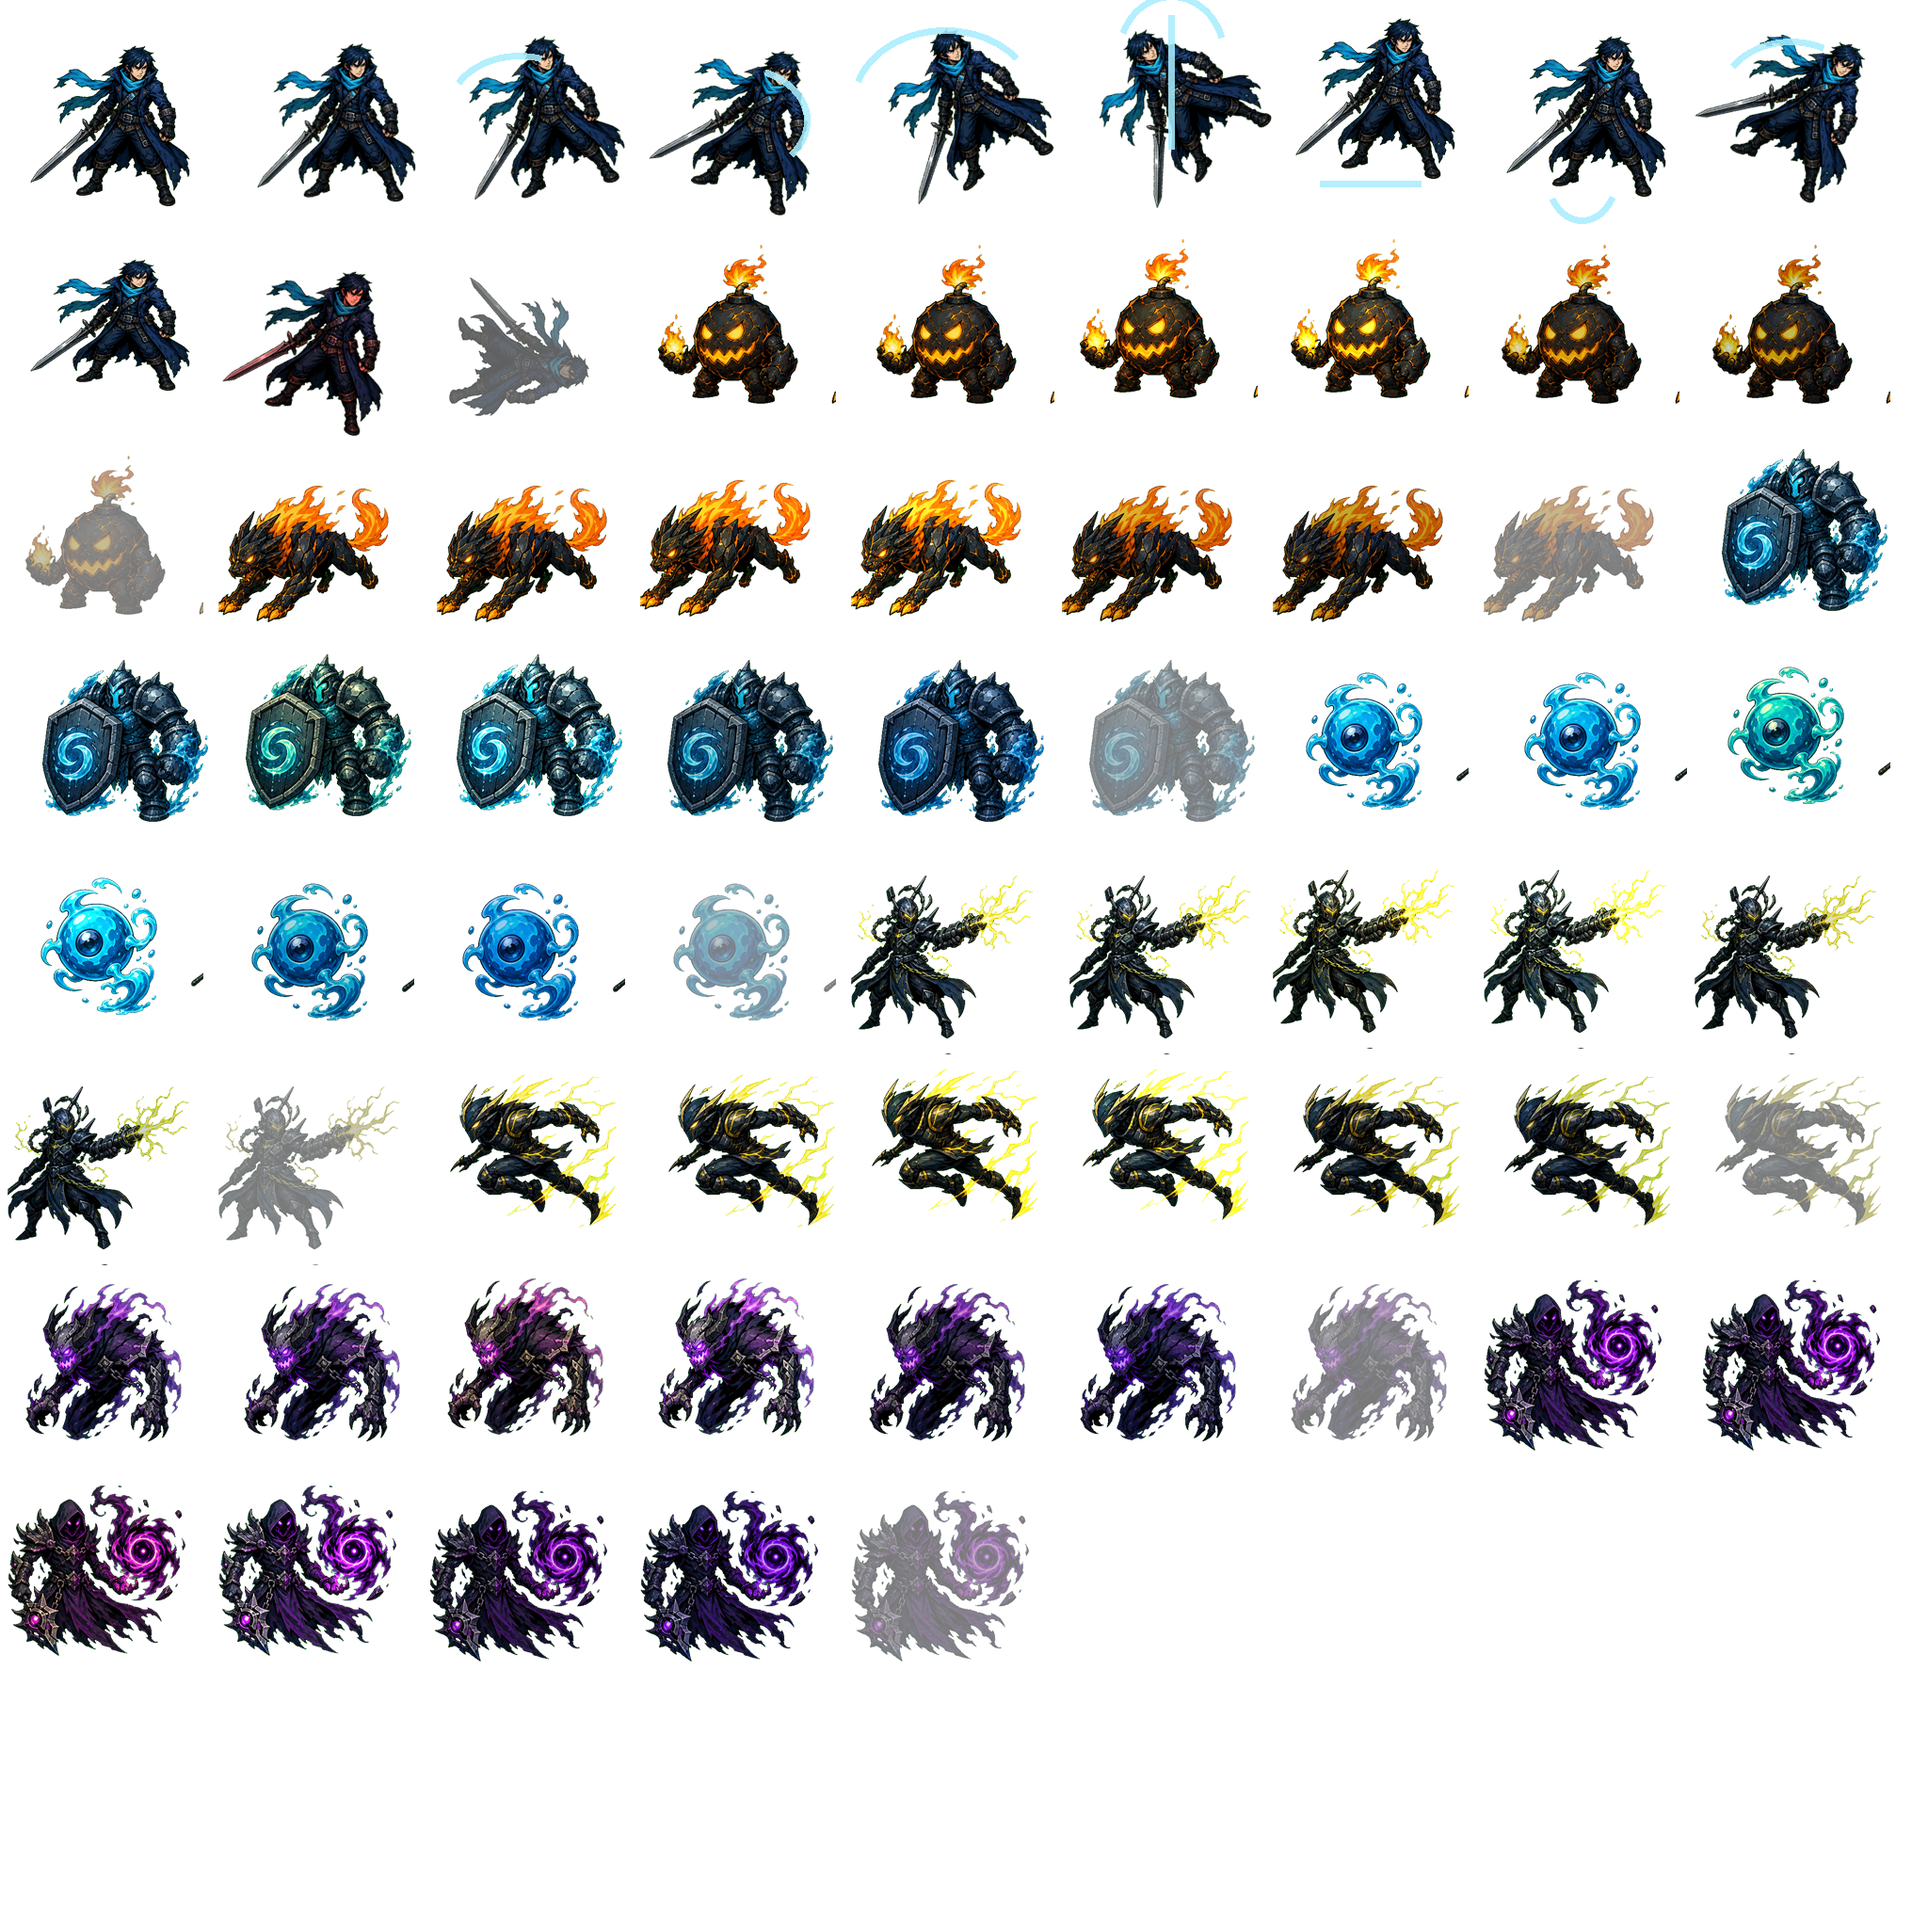
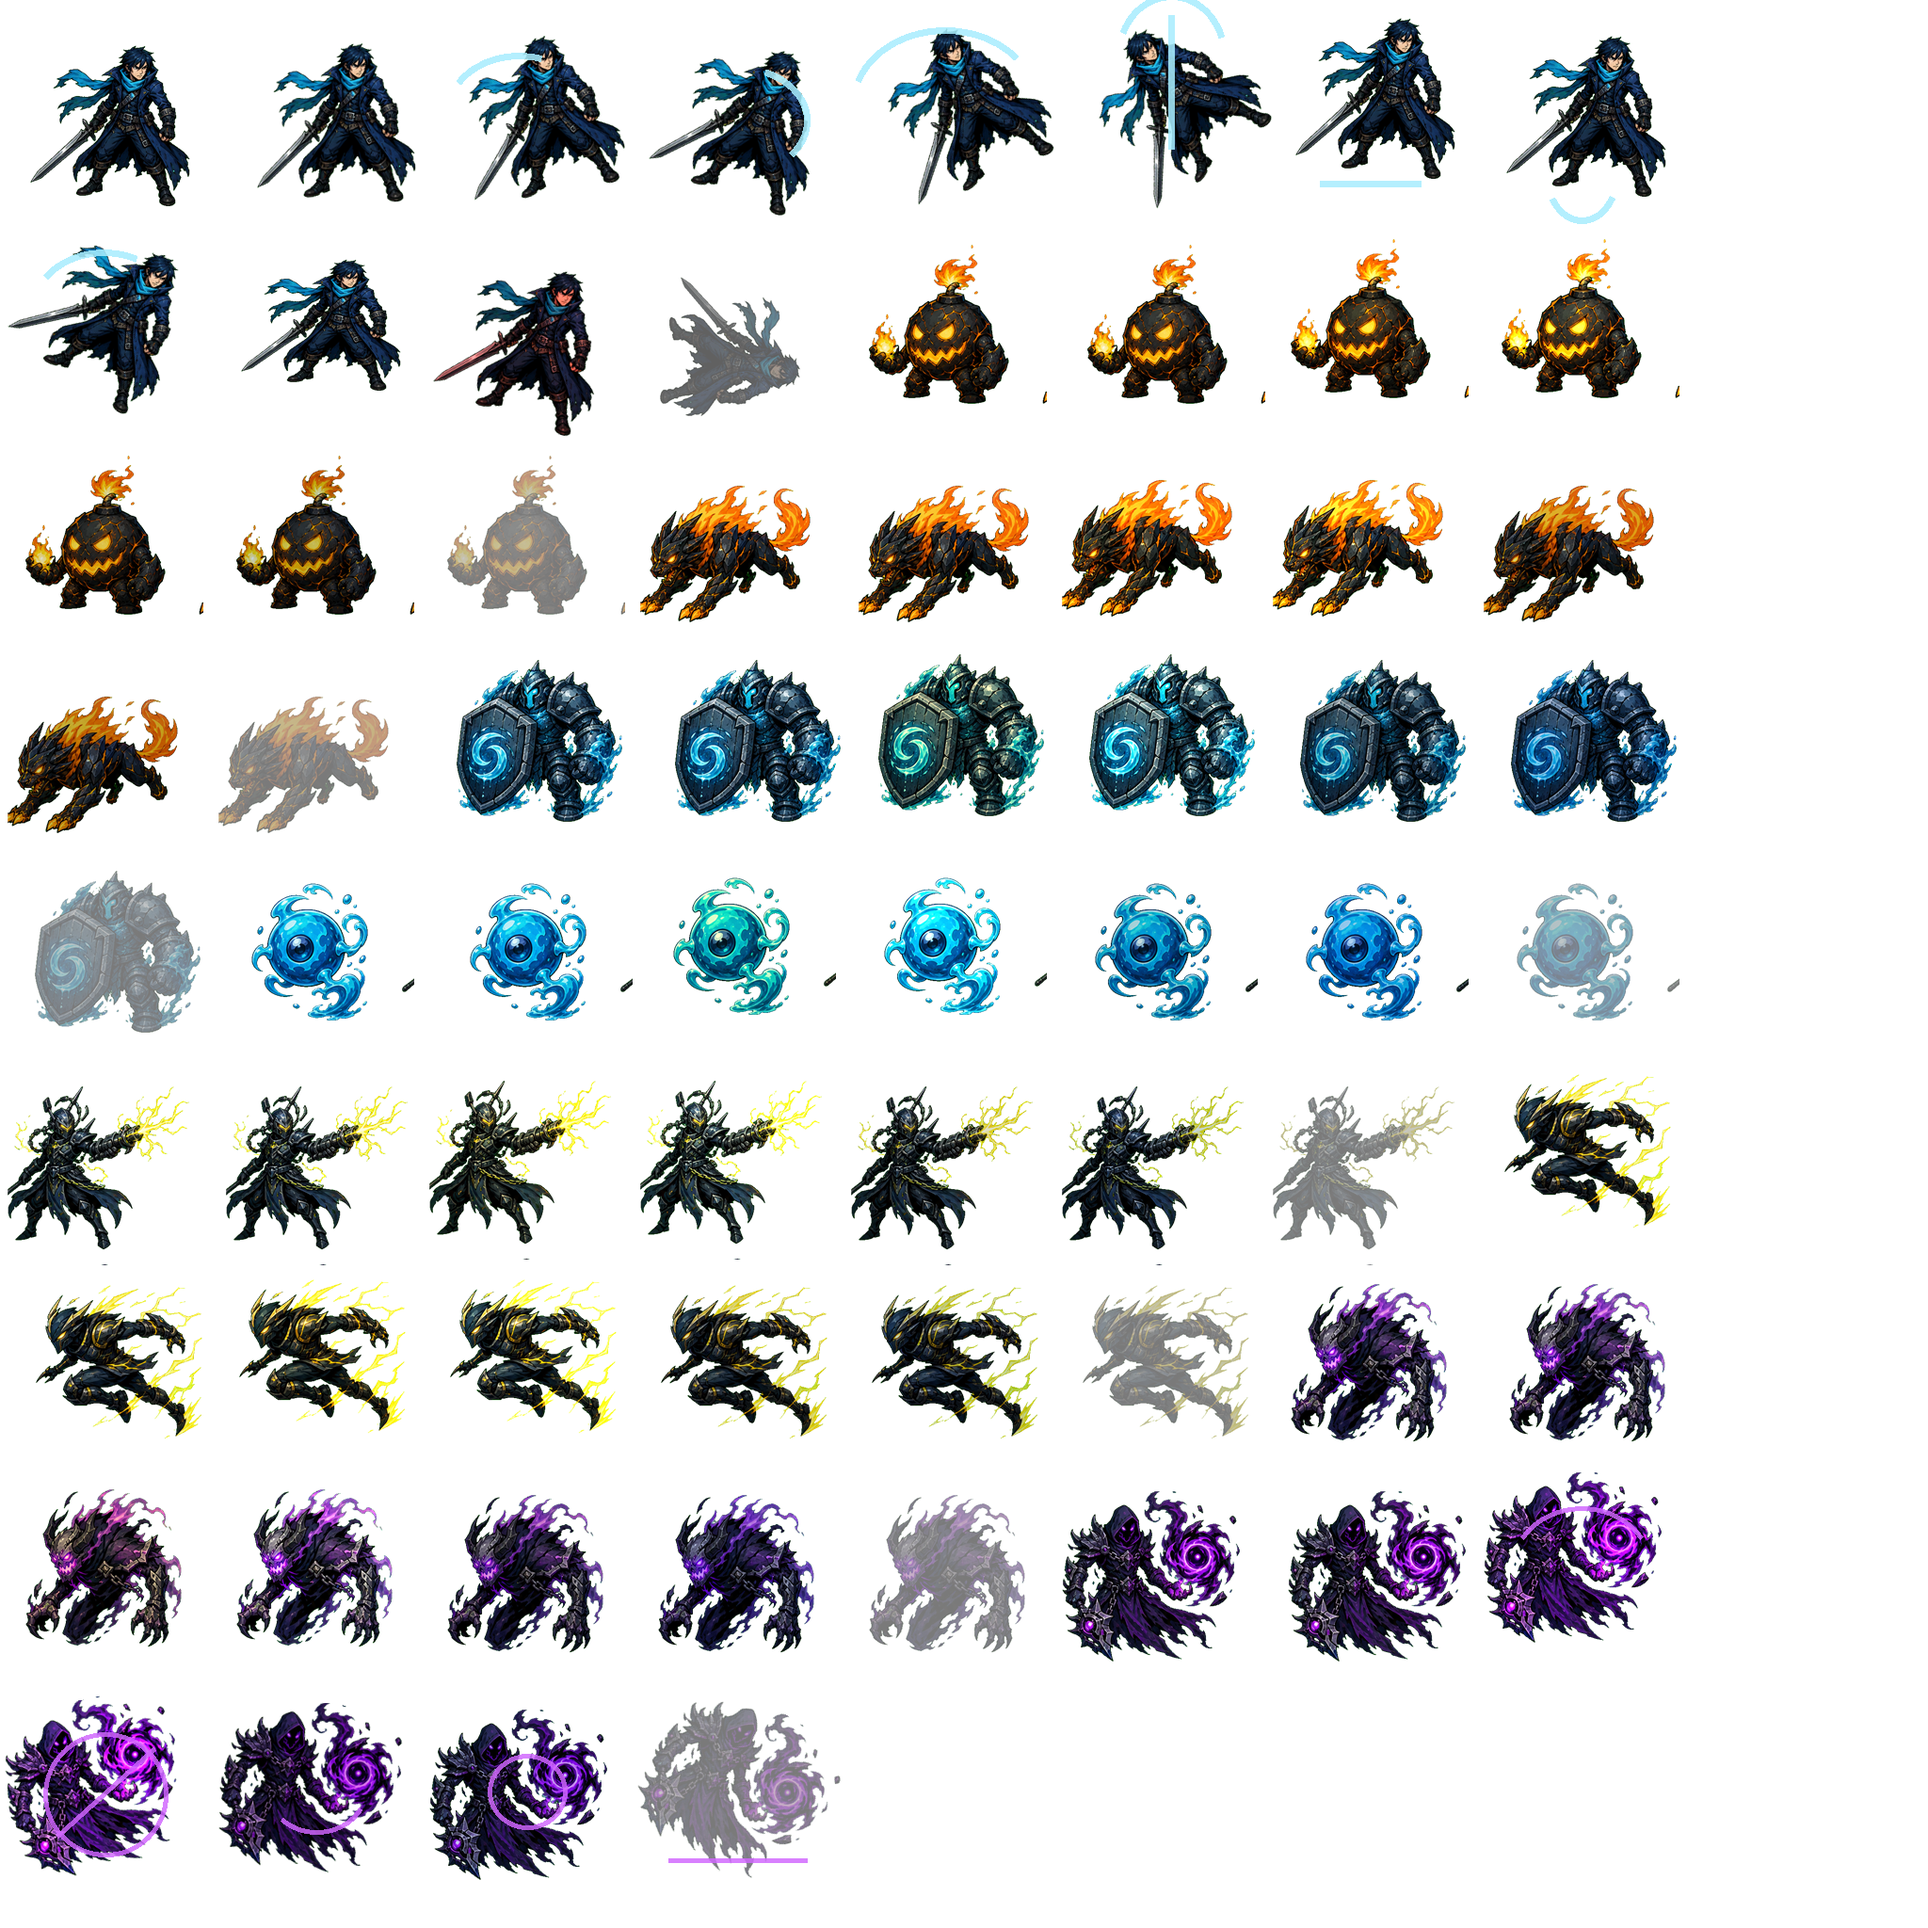
fix: validate stage 12 actor atlas content

diff --git a/tests/platform/stage12_actor_render_tests.cpp b/tests/platform/stage12_actor_render_tests.cpp
@@ -4,7 +4,10 @@
 #include "material_asset_validation.hpp"
 #include "material_manifest.hpp"
 
+#include <raylib.h>
+
 #include <array>
+#include <cstdint>
 
 namespace {
 
@@ -68,9 +71,101 @@ arpg::test::Failure stage12_monster_phases_use_distinct_material_frames() noexce
 }
 
 arpg::test::Failure stage12_actor_material_scale_matches_existing_geometry() noexcept {
-    ARPG_REQUIRE(arpg::platform::material_actor_draw_scale(true, 1.0F) == 0.36F);
-    ARPG_REQUIRE(arpg::platform::material_actor_draw_scale(false, 1.0F) == 0.34F);
-    ARPG_REQUIRE(arpg::platform::material_actor_draw_scale(true, 0.5F) == 0.18F);
+    constexpr float kPlayerTrimmedHeight = 172.0F;
+    constexpr float kPlayerTargetHeight = 82.0F;
+    constexpr float kMonsterTrimmedHeight = 176.0F;
+    constexpr float kMonsterTargetHeight = 78.0F;
+    const float player_scale = arpg::platform::material_actor_draw_scale(true, 1.0F);
+    const float monster_scale = arpg::platform::material_actor_draw_scale(false, 1.0F);
+    ARPG_REQUIRE(player_scale * kPlayerTrimmedHeight >= kPlayerTargetHeight - 0.1F);
+    ARPG_REQUIRE(player_scale * kPlayerTrimmedHeight <= kPlayerTargetHeight + 0.1F);
+    ARPG_REQUIRE(monster_scale * kMonsterTrimmedHeight >= kMonsterTargetHeight - 0.1F);
+    ARPG_REQUIRE(monster_scale * kMonsterTrimmedHeight <= kMonsterTargetHeight + 0.1F);
+    ARPG_REQUIRE(arpg::platform::material_actor_draw_scale(true, 0.5F)
+        == player_scale * 0.5F);
+    return {};
+}
+
+std::uint64_t sprite_pixel_hash(const Color* pixels, int image_width,
+    const arpg::platform::MaterialFrameDefinition& frame) noexcept {
+    std::uint64_t hash = 1469598103934665603ULL;
+    const int left = static_cast<int>(frame.source.x);
+    const int top = static_cast<int>(frame.source.y);
+    const int right = left + static_cast<int>(frame.source.width);
+    const int bottom = top + static_cast<int>(frame.source.height);
+    for (int y = top; y < bottom; ++y) {
+        for (int x = left; x < right; ++x) {
+            const Color pixel = pixels[y * image_width + x];
+            hash ^= pixel.r; hash *= 1099511628211ULL;
+            hash ^= pixel.g; hash *= 1099511628211ULL;
+            hash ^= pixel.b; hash *= 1099511628211ULL;
+            hash ^= pixel.a; hash *= 1099511628211ULL;
+        }
+    }
+    return hash;
+}
+
+bool frame_has_opaque_pixel(const Color* pixels, int image_width,
+    const arpg::platform::MaterialFrameDefinition& frame) noexcept {
+    const int left = static_cast<int>(frame.source.x);
+    const int top = static_cast<int>(frame.source.y);
+    const int right = left + static_cast<int>(frame.source.width);
+    const int bottom = top + static_cast<int>(frame.source.height);
+    for (int y = top; y < bottom; ++y) {
+        for (int x = left; x < right; ++x) {
+            if (pixels[y * image_width + x].a > 0U) return true;
+        }
+    }
+    return false;
+}
+
+arpg::test::Failure stage12_all_actor_manifest_frames_have_exported_content() noexcept {
+    const Image image = LoadImage(ARPG_PROJECT_SOURCE_DIR "/assets/stage12/actors.png");
+    ARPG_REQUIRE(image.data != nullptr);
+    Color* const pixels = LoadImageColors(image);
+    ARPG_REQUIRE(pixels != nullptr);
+    const arpg::platform::MaterialManifestDefinition manifest =
+        arpg::platform::default_material_manifest();
+    for (std::size_t index = 0U; index < manifest.frame_count; ++index) {
+        const arpg::platform::MaterialFrameDefinition& frame = manifest.frames[index];
+        if (frame.atlas != arpg::platform::MaterialAtlasId::actors) continue;
+        ARPG_REQUIRE(frame_has_opaque_pixel(pixels, image.width, frame));
+    }
+    UnloadImageColors(pixels);
+    UnloadImage(image);
+    return {};
+}
+
+arpg::test::Failure stage12_monster_phase_frames_have_unique_exported_pixels() noexcept {
+    constexpr std::array<MonsterId, 8> kMonsters{{
+        MonsterId::fire_bomber, MonsterId::fire_charger,
+        MonsterId::water_bulwark, MonsterId::water_support,
+        MonsterId::lightning_shooter, MonsterId::lightning_dasher,
+        MonsterId::chaos_chaser, MonsterId::chaos_hazard,
+    }};
+    constexpr std::array<MonsterAiPhase, 7> kPhases{{
+        MonsterAiPhase::idle, MonsterAiPhase::move, MonsterAiPhase::telegraph,
+        MonsterAiPhase::active, MonsterAiPhase::recovery,
+        MonsterAiPhase::cooldown, MonsterAiPhase::defeated,
+    }};
+    const Image image = LoadImage(ARPG_PROJECT_SOURCE_DIR "/assets/stage12/actors.png");
+    ARPG_REQUIRE(image.data != nullptr);
+    Color* const pixels = LoadImageColors(image);
+    ARPG_REQUIRE(pixels != nullptr);
+    for (const MonsterId monster : kMonsters) {
+        std::array<std::uint64_t, kPhases.size()> hashes{};
+        for (std::size_t index = 0U; index < kPhases.size(); ++index) {
+            const arpg::platform::MaterialFrameDefinition* frame = find_manifest_frame(
+                arpg::platform::select_monster_sprite(monster, kPhases[index]));
+            ARPG_REQUIRE(frame != nullptr);
+            hashes[index] = sprite_pixel_hash(pixels, image.width, *frame);
+            for (std::size_t prior = 0U; prior < index; ++prior) {
+                ARPG_REQUIRE(hashes[index] != hashes[prior]);
+            }
+        }
+    }
+    UnloadImageColors(pixels);
+    UnloadImage(image);
     return {};
 }
 
@@ -98,6 +193,10 @@ constexpr arpg::test::TestCase kCases[] = {
         &stage12_player_attack_actions_have_distinct_material_frames},
     {"scales material actors to the existing geometry envelope",
         &stage12_actor_material_scale_matches_existing_geometry},
+    {"exports distinct pixels for every monster phase frame",
+        &stage12_monster_phase_frames_have_unique_exported_pixels},
+    {"exports content for every actor manifest frame",
+        &stage12_all_actor_manifest_frames_have_exported_content},
 };
 
 }  // namespace

diff --git a/src/platform/raylib/material_animation.cpp b/src/platform/raylib/material_animation.cpp
@@ -3,6 +3,11 @@
 namespace arpg::platform {
 namespace {
 
+constexpr float kPlayerTrimmedHeight = 172.0F;
+constexpr float kPlayerTargetHeight = 82.0F;
+constexpr float kMonsterTrimmedHeight = 176.0F;
+constexpr float kMonsterTargetHeight = 78.0F;
+
 [[nodiscard]] MaterialSpriteId select_attack_sprite(
     combat::AttackId attack) noexcept {
     switch (attack) {
@@ -174,7 +179,11 @@ MaterialSpriteId select_door_sprite(dungeon::DungeonElement element) noexcept {
 
 float material_actor_draw_scale(bool player, float projection_scale) noexcept {
     if (projection_scale <= 0.0F) return 0.0F;
-    return projection_scale * (player ? 0.36F : 0.34F);
+    const float trimmed_height = player ? kPlayerTrimmedHeight
+                                        : kMonsterTrimmedHeight;
+    const float target_height = player ? kPlayerTargetHeight
+                                       : kMonsterTargetHeight;
+    return projection_scale * target_height / trimmed_height;
 }
 
 }  // namespace arpg::platform

diff --git a/src/platform/raylib/material_manifest.hpp b/src/platform/raylib/material_manifest.hpp
@@ -30,7 +30,8 @@ inline constexpr MaterialAtlasDefinition kDefaultMaterialAtlases[] = {
 
 #define ARPG_ACTOR_FRAME(sprite, column, row) \
     {MaterialSpriteId::sprite, MaterialAtlasId::actors, \
-        {static_cast<float>((column) * 224), static_cast<float>((row) * 224), 224.0F, 224.0F}, \
+        {static_cast<float>((column) * 224), static_cast<float>((row) * 224), \
+            224.0F, 224.0F}, \
         {112.0F, 224.0F}, 0U}
 
 inline constexpr MaterialFrameDefinition kDefaultMaterialFrames[] = {

diff --git a/tests/platform/platform_test_main.cpp b/tests/platform/platform_test_main.cpp
@@ -75,5 +75,5 @@ int main() {
         stage12_actor_render_suite(),
     };
 
-    return arpg::test::run_suites(suites, 296, "stage 12 material manifest runtime");
+    return arpg::test::run_suites(suites, 298, "stage 12 material manifest runtime");
 }

diff --git a/assets/stage12/actors-source.md b/assets/stage12/actors-source.md
@@ -4,4 +4,4 @@
 - 上游文件：`E:\codex1\.codex\generated_images\019f4e7f-6318-75d2-b82a-d69ac1304f04\exec-8505f9a2-e206-41bd-9a2f-79f6f89b67f5.png`
 - 处理：按 3×3 概念图切出固定玩家和八种怪物，移除 `#00ff00` 及其抗锯齿绿边，排入 2048×2048、8 列×9 行的透明 PNG 图集。
 
-`actors.png` 的清单布局为 **9 列×9 行**（并非 8 列）；每格为 224×224，脚锚点为 `(112, 224)`，只使用前 68 格。前 12 格依次为玩家 idle、move、J1、J2、J3、L 上挑、跳跃上升、跳跃下降、空中 J、落地、受击、死亡。玩家帧基于同一原创角色裁切作几何旋转、腾空、落地压缩、受击倾斜、倒地和剑弧合成；L 格含明确朝上的蓝白挥剑弧。其余每种怪物连续 7 格：idle、move、telegraph、active、recovery、cooldown、defeated。怪物阶段格保持同一固定角色外观，以位移、提亮、冷却暗化或败北淡出表达阶段。
+`actors.png` 画布为 2048×2048，按 224px 槽位可容纳 9×9；但 **manifest 和实际导出只使用左侧 8 列×9 行的 72 个有效格**，其中前 68 格有内容，脚锚点为 `(112, 224)`。前 12 格依次为玩家 idle、move、J1、J2、J3、L 上挑、跳跃上升、跳跃下降、空中 J、落地、受击、死亡。玩家帧基于同一原创角色裁切作几何旋转、腾空、落地压缩、受击倾斜、倒地和剑弧合成；L 格含明确朝上的蓝白挥剑弧。其余每种怪物连续 7 格：idle、move、telegraph、active、recovery、cooldown、defeated。怪物阶段格保持同一固定角色外观，以位移、提亮、冷却暗化或败北淡出表达阶段。

diff --git a/assets/stage12/README.md b/assets/stage12/README.md
@@ -6,4 +6,4 @@
 - `actors.png`：2048 × 2048
 - `effects_ui.png`：1024 × 1024
 
-本任务只交付 `environment.png`。`actors.png` 与 `effects_ui.png` 仍可缺失；游戏会对每个缺失类别只警告一次并安全回退。环境图集缺失、尺寸不匹配或任一帧不能绘制时，房间会整体回退为原有灰盒、矩形门和椭圆洞口。发布后置步骤会将整个 `assets/stage12` 目录复制到可执行文件同级的 `bin/assets/stage12`，不需要运行时解析清单或在绘制热路径读取文件。
+本阶段已交付 `environment.png` 与 `actors.png`；`effects_ui.png` 仍可缺失。游戏会对每个缺失类别只警告一次并安全回退：环境图集缺失、尺寸不匹配或任一帧不能绘制时，房间整体回退为原有灰盒、矩形门和椭圆洞口；角色图集或角色帧不能绘制时，玩家回退为既有几何绘制、怪物回退为既有剪影绘制。发布后置步骤会将整个 `assets/stage12` 目录复制到可执行文件同级的 `bin/assets/stage12`，不需要运行时解析清单或在绘制热路径读取文件。
